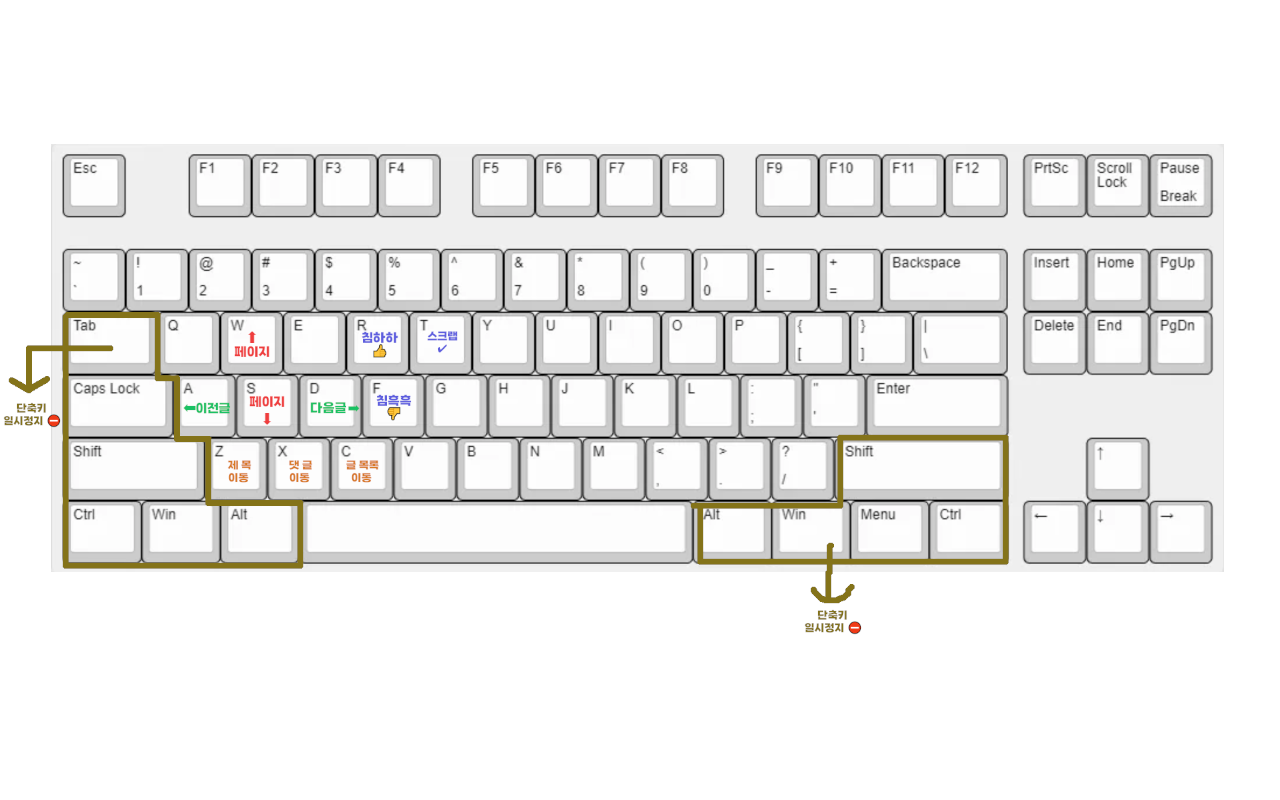
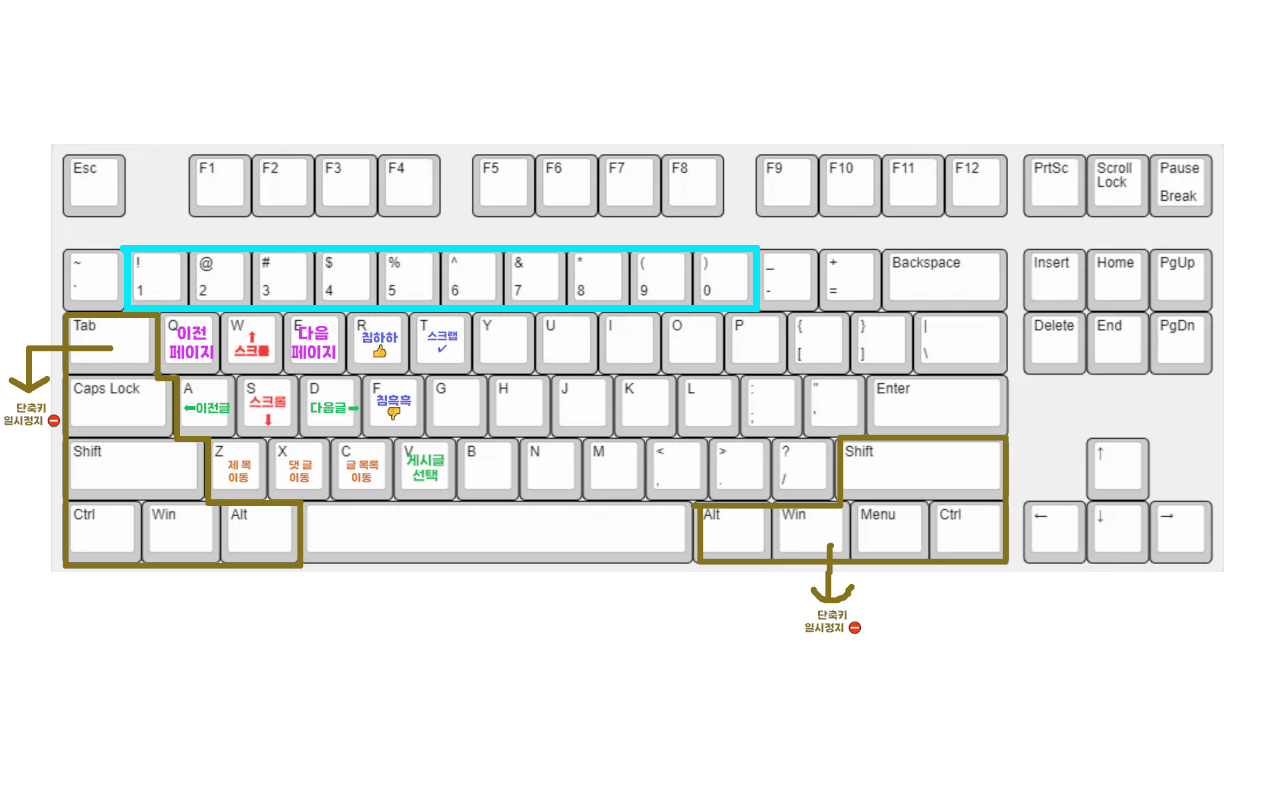
modify readme

Changed region(s): [[0.0938, 0.2812, 0.5938, 0.4688], [0.3125, 0.5625, 0.3438, 0.625], [0.1875, 0.5, 0.2188, 0.5312]]

diff --git a/README.md b/README.md
@@ -1,8 +1,8 @@
 1. 프로그램 개요
 
     침하하 이용 시 키보드로 쉽게 조작하기 위해서 개발
-    * 원래 계획은 크롬 확장 프로그램에 올리려고 했으나  
-    개인정보 포털에서 개인정보처리방침 만들기가 법 개정으로 일시적 서비스 중단 한다고해서 대기 중...
+
+<hr>
 
 2. 프로그램 설치방법
 
@@ -21,25 +21,43 @@
     4. 해당 그림처럼 침착맨 로고가 나오면 설치 성공!
     ![설치_3](./img/readme/install_3.png)
 
+<hr>
+
 3. 프로그램 사용법
 
     ![키_설명](./img/readme/key_explain.png)
+
+<hr>
 
     * 화면 스크롤  
         W - 위로  
         S - 아래로  
 
+<hr>
+
     * 게시물 이동  
         A - 이전글  
         D - 다음글  
+        V - 번호로 게시글 이동(V -> 게시글 옆 숫자 -> V)
+
+<hr>
 
     * 화면이동 바로가기 키  
         Z - 게시글 제목으로 이동  
         X - 댓글창으로 이동  
         C - 글 목록으로 이동  
 
-    * 버튼 기능  
+<hr>
+
+    * 버튼 기능 
+
         R - 침하하 버튼 클릭  
         F - 침흑흑 버튼 클릭  
         T - 스크랩 버튼 클릭  
-        * 해당 기능은 잘못 눌렀을 경우를 대비하여 다시한번 물어봅니다.
+        (해당 기능은 잘못 눌렀을 경우를 대비하여 물어봅니다.)
+        
+<hr>
+
+    * 페이지 이동  
+        Q - 이전 페이지
+        E - 다음 페이지
